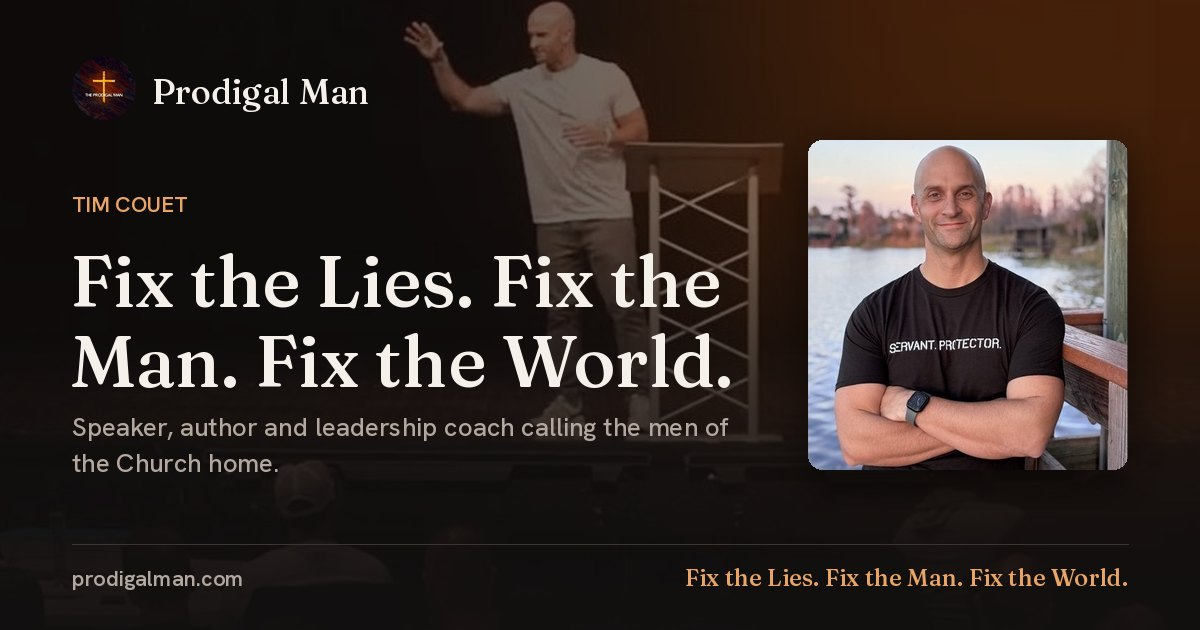
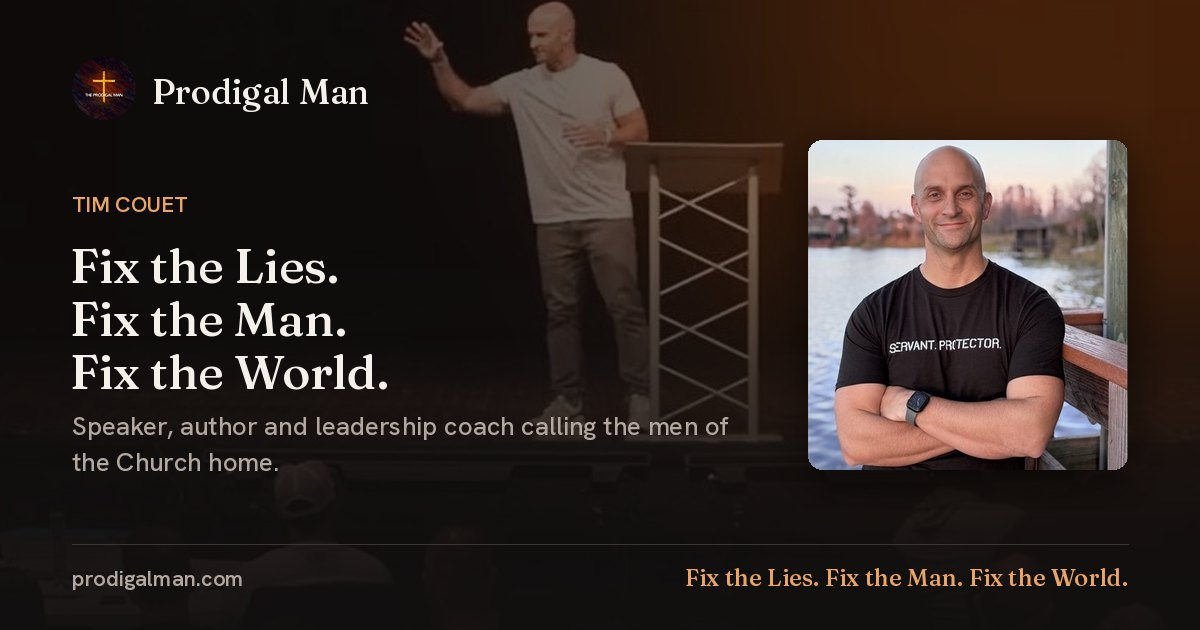
home: book CTA with the Amazon rating above Who we are; tagline stacked one line each sitewide
Claude-Session: https://claude.ai/code/session_019FoSb5gzhmmmVUBHaovqfi

Changed region(s): [[0.0617, 0.3921, 0.6167, 0.6333], [0.0617, 0.6635, 0.6167, 0.6937], [0.0617, 0.7238, 0.2467, 0.754]]

diff --git a/site/index.html b/site/index.html
@@ -39,7 +39,7 @@
   <div class="wrap">
     <div>
       <p class="eyebrow">Tim Couet &middot; Prodigal Man</p>
-      <h1>Fix the Lies. Fix the <em>Man</em>. Fix the World.</h1>
+      <h1 class="stacked">Fix the Lies.<br>Fix the <em>Man</em>.<br>Fix the World.</h1>
       <p class="lede">Calling the men of the Church home to the identity God assigned them, so they can walk in victory as husbands, fathers and leaders.</p>
       <div class="btn-row">
         <a class="btn btn-primary" href="book/"><svg viewBox="0 0 24 24" fill="none" stroke="currentColor" stroke-width="2"><path d="M6 2h9l5 5v15H6z"/><path d="M14 2v6h6"/></svg> Get the book</a>
@@ -51,6 +51,22 @@
       <img src="assets/img/tim-portrait.jpg" alt="Tim Couet" width="445" height="458">
       <figcaption><b>Tim Couet</b> &middot; Author of Identity Assignment</figcaption>
     </figure>
+  </div>
+</section>
+
+<section class="paper-2 home-book">
+  <div class="wrap split">
+    <figure class="book-cover"><img src="assets/img/book-cover.png" alt="Identity Assignment by Tim Couet, book cover and stacked copies" width="864" height="1200"></figure>
+    <div>
+      <p class="eyebrow">The book</p>
+      <h2>Identity Assignment</h2>
+      <a class="rating" href="https://a.co/d/09KZT5xQ" target="_blank" rel="noopener" aria-label="Rated 4.9 out of 5 stars on Amazon"><span class="rating-stars"><svg viewBox="0 0 24 24" aria-hidden="true"><path d="M12 2.5l2.9 6.1 6.7.8-4.9 4.6 1.3 6.6L12 17.3l-6 3.3 1.3-6.6L2.4 9.4l6.7-.8z"/></svg><svg viewBox="0 0 24 24" aria-hidden="true"><path d="M12 2.5l2.9 6.1 6.7.8-4.9 4.6 1.3 6.6L12 17.3l-6 3.3 1.3-6.6L2.4 9.4l6.7-.8z"/></svg><svg viewBox="0 0 24 24" aria-hidden="true"><path d="M12 2.5l2.9 6.1 6.7.8-4.9 4.6 1.3 6.6L12 17.3l-6 3.3 1.3-6.6L2.4 9.4l6.7-.8z"/></svg><svg viewBox="0 0 24 24" aria-hidden="true"><path d="M12 2.5l2.9 6.1 6.7.8-4.9 4.6 1.3 6.6L12 17.3l-6 3.3 1.3-6.6L2.4 9.4l6.7-.8z"/></svg><svg viewBox="0 0 24 24" aria-hidden="true"><path d="M12 2.5l2.9 6.1 6.7.8-4.9 4.6 1.3 6.6L12 17.3l-6 3.3 1.3-6.6L2.4 9.4l6.7-.8z"/></svg></span><b>4.9</b><span>out of 5 stars on Amazon</span></a>
+      <p class="lede" style="margin-top:1rem">Tim Couet's book on the foundation of manhood: the identity God assigned to men in the garden, and how to live from it today. Now available on Amazon.</p>
+      <div class="btn-row" style="margin-top:1.75rem">
+        <a class="btn btn-primary" href="https://a.co/d/09KZT5xQ" target="_blank" rel="noopener"><svg viewBox="0 0 24 24" fill="none" stroke="currentColor" stroke-width="2"><path d="M6 2h9l5 5v15H6z"/><path d="M14 2v6h6"/></svg> Buy now on Amazon</a>
+        <a class="btn btn-ghost" href="book/">About the book</a>
+      </div>
+    </div>
   </div>
 </section>
 
@@ -67,7 +83,7 @@
     </div>
     <div style="display:grid;justify-items:center;gap:1.2rem;text-align:center">
       <img class="logo-round" src="assets/img/logo.png" alt="The Prodigal Man" width="569" height="576">
-      <p class="tagline">Fix the Lies. <b>Fix the Man.</b> Fix the World.</p>
+      <p class="tagline">Fix the Lies.<br><b>Fix the Man.</b><br>Fix the World.</p>
     </div>
   </div>
 </section>
@@ -138,7 +154,7 @@
   <div class="wrap">
     <div class="f-mission">
       <p class="f-mission-label">The mission</p>
-      <p class="f-mission-text">Fix the Lies. Fix the Man. Fix the World.</p>
+      <p class="f-mission-text">Fix the Lies.<br>Fix the Man.<br>Fix the World.</p>
     </div>
     <div class="top">
       <div>

diff --git a/site/assets/site.css b/site/assets/site.css
@@ -89,6 +89,7 @@ section{padding-block:clamp(56px,8vw,112px)}
 .hero .wrap{position:relative;z-index:1;display:grid;grid-template-columns:minmax(0,1.15fr) minmax(280px,.85fr);gap:clamp(2rem,5vw,5rem);align-items:center}
 .hero h1{margin:1rem 0 1.25rem}
 .hero h1 em{font-style:italic;font-weight:400;color:var(--copper-glow)}
+.hero h1.stacked{text-wrap:initial}
 .hero .lede{max-width:52ch}
 .hero .btn-row{margin-top:2rem}
 .hero-roles{margin-top:2.25rem;display:flex;flex-wrap:wrap;gap:.5rem .9rem;color:var(--on-ink-muted);font-size:.85rem;letter-spacing:.1em;text-transform:uppercase}
@@ -159,6 +160,17 @@ section{padding-block:clamp(56px,8vw,112px)}
 .tagline b{color:var(--copper);font-weight:500}
 .logo-round,.split img.logo-round{width:150px;height:150px;border-radius:50%;box-shadow:none;filter:drop-shadow(0 18px 24px rgba(0,0,0,.38))}
 
+/* rating */
+.rating{display:inline-flex;align-items:center;gap:.55rem;text-decoration:none;color:inherit;font-size:.95rem;margin-top:1rem}
+.rating-stars{display:inline-flex;gap:2px}
+.rating-stars svg{width:18px;height:18px;fill:var(--gold)}
+.rating b{font-family:var(--display);font-size:1.25rem;font-weight:500;color:var(--text)}
+.ink .rating b,.ink-2 .rating b{color:#fff}
+.rating span:last-child{color:var(--muted)}
+.ink .rating span:last-child,.ink-2 .rating span:last-child{color:var(--on-ink-muted)}
+.rating:hover span:last-child{text-decoration:underline;text-underline-offset:3px}
+.home-book .book-cover{max-width:360px}
+@media (max-width:860px){.home-book .split{grid-template-columns:1fr}.home-book .book-cover{justify-self:start;max-width:300px}}
 /* book */
 .book-cover{max-width:420px;justify-self:center;margin:0;position:relative;padding-bottom:36px}
 .book-cover img{position:relative;z-index:1;filter:drop-shadow(0 28px 30px rgba(0,0,0,.42)) drop-shadow(0 8px 10px rgba(0,0,0,.28)) drop-shadow(0 1px 2px rgba(0,0,0,.35))}

diff --git a/site/book/index.html b/site/book/index.html
@@ -48,6 +48,7 @@
     <div>
       <p class="eyebrow">Now available</p>
       <h2>Identity Assignment</h2>
+      <a class="rating" href="https://a.co/d/09KZT5xQ" target="_blank" rel="noopener" aria-label="Rated 4.9 out of 5 stars on Amazon"><span class="rating-stars"><svg viewBox="0 0 24 24" aria-hidden="true"><path d="M12 2.5l2.9 6.1 6.7.8-4.9 4.6 1.3 6.6L12 17.3l-6 3.3 1.3-6.6L2.4 9.4l6.7-.8z"/></svg><svg viewBox="0 0 24 24" aria-hidden="true"><path d="M12 2.5l2.9 6.1 6.7.8-4.9 4.6 1.3 6.6L12 17.3l-6 3.3 1.3-6.6L2.4 9.4l6.7-.8z"/></svg><svg viewBox="0 0 24 24" aria-hidden="true"><path d="M12 2.5l2.9 6.1 6.7.8-4.9 4.6 1.3 6.6L12 17.3l-6 3.3 1.3-6.6L2.4 9.4l6.7-.8z"/></svg><svg viewBox="0 0 24 24" aria-hidden="true"><path d="M12 2.5l2.9 6.1 6.7.8-4.9 4.6 1.3 6.6L12 17.3l-6 3.3 1.3-6.6L2.4 9.4l6.7-.8z"/></svg><svg viewBox="0 0 24 24" aria-hidden="true"><path d="M12 2.5l2.9 6.1 6.7.8-4.9 4.6 1.3 6.6L12 17.3l-6 3.3 1.3-6.6L2.4 9.4l6.7-.8z"/></svg></span><b>4.9</b><span>out of 5 stars on Amazon</span></a>
       <p class="lede" style="margin-top:1rem">By Tim Couet. Order your copy on Amazon.</p>
       <div class="btn-row" style="margin-top:1.75rem">
         <a class="btn btn-primary" href="https://a.co/d/09KZT5xQ" target="_blank" rel="noopener"><svg viewBox="0 0 24 24" fill="none" stroke="currentColor" stroke-width="2"><path d="M6 2h9l5 5v15H6z"/><path d="M14 2v6h6"/></svg> Buy now on Amazon</a>
@@ -68,7 +69,7 @@
   <div class="wrap">
     <div class="f-mission">
       <p class="f-mission-label">The mission</p>
-      <p class="f-mission-text">Fix the Lies. Fix the Man. Fix the World.</p>
+      <p class="f-mission-text">Fix the Lies.<br>Fix the Man.<br>Fix the World.</p>
     </div>
     <div class="top">
       <div>

diff --git a/site/more/about/index.html b/site/more/about/index.html
@@ -53,7 +53,7 @@
     </div>
     <div style="display:grid;justify-items:center;gap:1.2rem;text-align:center">
       <img class="logo-round" src="../../assets/img/logo.png" alt="The Prodigal Man" width="569" height="576" style="width:220px;height:220px">
-      <p class="tagline">Fix the Lies. <b>Fix the Man.</b> Fix the World.</p>
+      <p class="tagline">Fix the Lies.<br><b>Fix the Man.</b><br>Fix the World.</p>
     </div>
   </div>
 </section>
@@ -68,7 +68,7 @@
   <div class="wrap">
     <div class="f-mission">
       <p class="f-mission-label">The mission</p>
-      <p class="f-mission-text">Fix the Lies. Fix the Man. Fix the World.</p>
+      <p class="f-mission-text">Fix the Lies.<br>Fix the Man.<br>Fix the World.</p>
     </div>
     <div class="top">
       <div>

diff --git a/site/blog/index.html b/site/blog/index.html
@@ -119,7 +119,7 @@
   <div class="wrap">
     <div class="f-mission">
       <p class="f-mission-label">The mission</p>
-      <p class="f-mission-text">Fix the Lies. Fix the Man. Fix the World.</p>
+      <p class="f-mission-text">Fix the Lies.<br>Fix the Man.<br>Fix the World.</p>
     </div>
     <div class="top">
       <div>

diff --git a/site/404.html b/site/404.html
@@ -47,7 +47,7 @@
   <div class="wrap">
     <div class="f-mission">
       <p class="f-mission-label">The mission</p>
-      <p class="f-mission-text">Fix the Lies. Fix the Man. Fix the World.</p>
+      <p class="f-mission-text">Fix the Lies.<br>Fix the Man.<br>Fix the World.</p>
     </div>
     <div class="top">
       <div>

diff --git a/site/blog/choose-your-soil/index.html b/site/blog/choose-your-soil/index.html
@@ -67,7 +67,7 @@
   <div class="wrap">
     <div class="f-mission">
       <p class="f-mission-label">The mission</p>
-      <p class="f-mission-text">Fix the Lies. Fix the Man. Fix the World.</p>
+      <p class="f-mission-text">Fix the Lies.<br>Fix the Man.<br>Fix the World.</p>
     </div>
     <div class="top">
       <div>

diff --git a/site/blog/humility-and-holy-confidence/index.html b/site/blog/humility-and-holy-confidence/index.html
@@ -65,7 +65,7 @@
   <div class="wrap">
     <div class="f-mission">
       <p class="f-mission-label">The mission</p>
-      <p class="f-mission-text">Fix the Lies. Fix the Man. Fix the World.</p>
+      <p class="f-mission-text">Fix the Lies.<br>Fix the Man.<br>Fix the World.</p>
     </div>
     <div class="top">
       <div>

diff --git a/site/blog/identity-how-did-god-make-the-man/index.html b/site/blog/identity-how-did-god-make-the-man/index.html
@@ -68,7 +68,7 @@
   <div class="wrap">
     <div class="f-mission">
       <p class="f-mission-label">The mission</p>
-      <p class="f-mission-text">Fix the Lies. Fix the Man. Fix the World.</p>
+      <p class="f-mission-text">Fix the Lies.<br>Fix the Man.<br>Fix the World.</p>
     </div>
     <div class="top">
       <div>

diff --git a/site/blog/is-victory-conditional-it-depends/index.html b/site/blog/is-victory-conditional-it-depends/index.html
@@ -68,7 +68,7 @@
   <div class="wrap">
     <div class="f-mission">
       <p class="f-mission-label">The mission</p>
-      <p class="f-mission-text">Fix the Lies. Fix the Man. Fix the World.</p>
+      <p class="f-mission-text">Fix the Lies.<br>Fix the Man.<br>Fix the World.</p>
     </div>
     <div class="top">
       <div>

diff --git a/site/blog/jesus-wimpy-and-passive-think-again/index.html b/site/blog/jesus-wimpy-and-passive-think-again/index.html
@@ -68,7 +68,7 @@
   <div class="wrap">
     <div class="f-mission">
       <p class="f-mission-label">The mission</p>
-      <p class="f-mission-text">Fix the Lies. Fix the Man. Fix the World.</p>
+      <p class="f-mission-text">Fix the Lies.<br>Fix the Man.<br>Fix the World.</p>
     </div>
     <div class="top">
       <div>

diff --git a/site/blog/the-master-artist-and-his-image/index.html b/site/blog/the-master-artist-and-his-image/index.html
@@ -66,7 +66,7 @@
   <div class="wrap">
     <div class="f-mission">
       <p class="f-mission-label">The mission</p>
-      <p class="f-mission-text">Fix the Lies. Fix the Man. Fix the World.</p>
+      <p class="f-mission-text">Fix the Lies.<br>Fix the Man.<br>Fix the World.</p>
     </div>
     <div class="top">
       <div>
